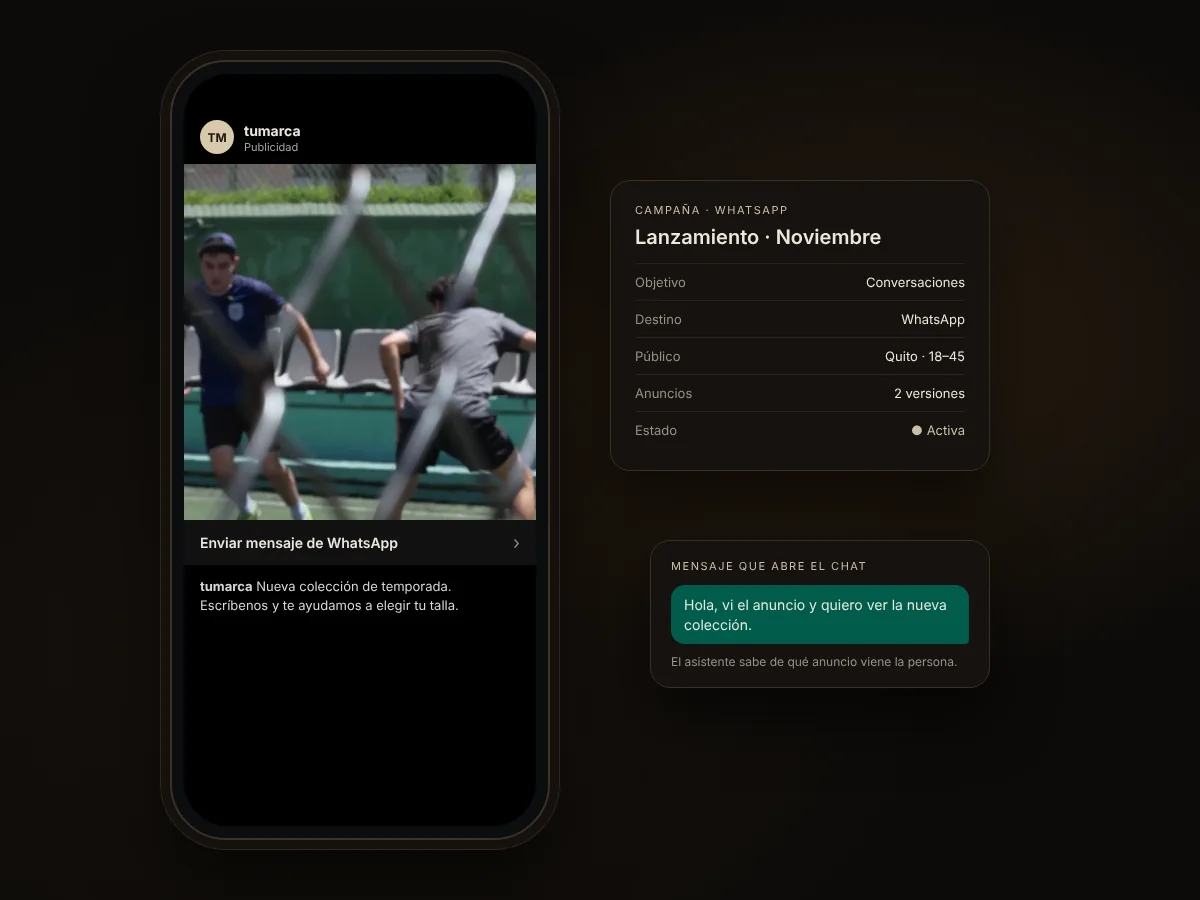
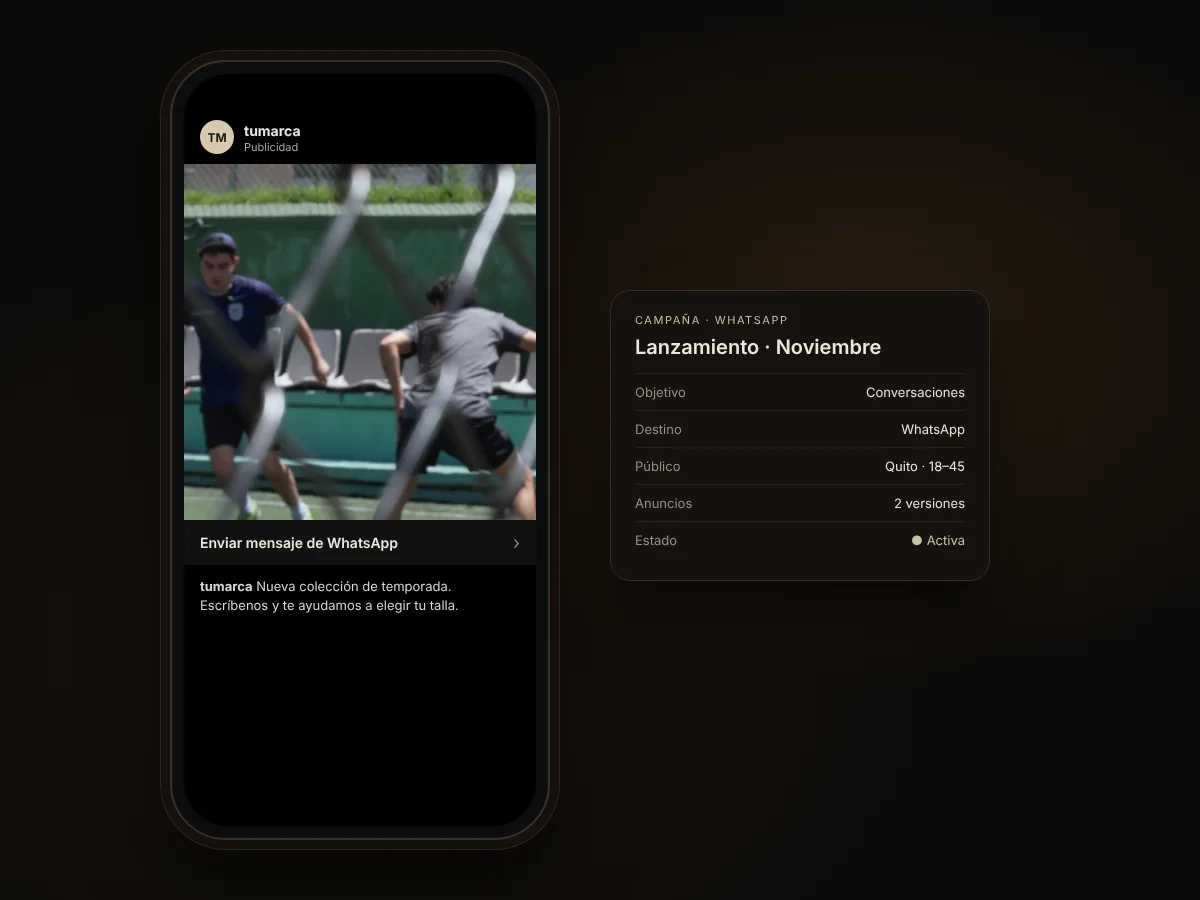
Servicios: textos enfocados en resultados, sin detallar el método
Claude-Session: https://claude.ai/code/session_015h3myGgNJe13r3MV7cfRrF

diff --git a/servicios.html b/servicios.html
@@ -6,7 +6,7 @@
 <meta name="theme-color" content="#0A0908">
 <link rel="icon" href="assets/monograma-cw.png">
 <title>Servicios — Creative Whisper</title>
-<meta name="description" content="Servicios de Creative Whisper: análisis de datos y de conversaciones, automatización de WhatsApp con IA, community manager, campañas en Meta Ads, sitios web, video de marca, fotografía y doblaje.">
+<meta name="description" content="Servicios de Creative Whisper: análisis de datos, automatización con inteligencia artificial, marketing digital, sitios web y producción audiovisual.">
 <link rel="preconnect" href="https://fonts.googleapis.com">
 <link rel="preconnect" href="https://fonts.gstatic.com" crossorigin>
 <link rel="stylesheet" href="https://fonts.googleapis.com/css2?family=Cinzel:wght@400;500;600&family=Cormorant:ital,wght@0,300;0,400;0,500;1,300;1,400;1,500&family=Hanken+Grotesk:wght@400;500;600&family=IBM+Plex+Mono:wght@400;500&display=swap">
@@ -785,16 +785,16 @@ html.intro-playing .hero-title .ln > span{animation-play-state:paused}
         <div class="sum-col">
           <div class="sum-group"><span class="label">Datos e inteligencia artificial</span>
             <a class="sum-item" href="#svc-analisis-de-datos"><span class="sum-n mono">01</span><span class="sum-t"><b>Análisis de datos</b><span>Dashboards en Power BI, modelos y segmentación de clientes.</span></span><span class="arrow" aria-hidden="true">→</span></a>
-            <a class="sum-item" href="#svc-analisis-de-conversaciones"><span class="sum-n mono">02</span><span class="sum-t"><b>Análisis de conversaciones</b><span>KPIs, sentimiento y quejas a partir de tus chats.</span></span><span class="arrow" aria-hidden="true">→</span></a>
+            <a class="sum-item" href="#svc-analisis-de-conversaciones"><span class="sum-n mono">02</span><span class="sum-t"><b>Análisis de conversaciones</b><span>Información clara a partir de tus conversaciones.</span></span><span class="arrow" aria-hidden="true">→</span></a>
           </div>
           <div class="sum-group"><span class="label">Automatización y atención</span>
-            <a class="sum-item" href="#svc-automatizacion-de-whatsapp"><span class="sum-n mono">03</span><span class="sum-t"><b>Automatización de WhatsApp</b><span>Asistente con IA que responde, toma pedidos y cotiza envíos.</span></span><span class="arrow" aria-hidden="true">→</span></a>
-            <a class="sum-item" href="#svc-community-manager-con-ia"><span class="sum-n mono">04</span><span class="sum-t"><b>Community manager con IA</b><span>Mensajes y comentarios de Instagram respondidos al momento.</span></span><span class="arrow" aria-hidden="true">→</span></a>
+            <a class="sum-item" href="#svc-automatizacion-de-whatsapp"><span class="sum-n mono">03</span><span class="sum-t"><b>Automatización de WhatsApp</b><span>Atención 24/7 con la voz de tu marca.</span></span><span class="arrow" aria-hidden="true">→</span></a>
+            <a class="sum-item" href="#svc-community-manager-con-ia"><span class="sum-n mono">04</span><span class="sum-t"><b>Community manager con IA</b><span>Instagram atendido al momento.</span></span><span class="arrow" aria-hidden="true">→</span></a>
           </div>
           <div class="sum-group"><span class="label">Marketing digital</span>
-            <a class="sum-item" href="#svc-campanas-en-meta-ads"><span class="sum-n mono">05</span><span class="sum-t"><b>Campañas en Meta Ads</b><span>Anuncios que llevan a una conversación de WhatsApp.</span></span><span class="arrow" aria-hidden="true">→</span></a>
+            <a class="sum-item" href="#svc-campanas-en-meta-ads"><span class="sum-n mono">05</span><span class="sum-t"><b>Campañas en Meta Ads</b><span>Campañas que generan conversaciones.</span></span><span class="arrow" aria-hidden="true">→</span></a>
             <a class="sum-item" href="#svc-diseno-para-instagram"><span class="sum-n mono">06</span><span class="sum-t"><b>Diseño para Instagram</b><span>Posts, carruseles y stories con publicación programada.</span></span><span class="arrow" aria-hidden="true">→</span></a>
-            <a class="sum-item" href="#svc-sitios-web-con-pedido-por-whatsapp"><span class="sum-n mono">07</span><span class="sum-t"><b>Sitios web con pedido por WhatsApp</b><span>Catálogo, total calculado y pedido en un paso.</span></span><span class="arrow" aria-hidden="true">→</span></a>
+            <a class="sum-item" href="#svc-sitios-web-con-pedido-por-whatsapp"><span class="sum-n mono">07</span><span class="sum-t"><b>Sitios web con pedido por WhatsApp</b><span>Tu catálogo listo para vender desde el celular.</span></span><span class="arrow" aria-hidden="true">→</span></a>
           </div>
         </div>
         <div class="sum-col">
@@ -861,15 +861,13 @@ html.intro-playing .hero-title .ln > span{animation-play-state:paused}
           <div class="ph"><img src="assets/srv/conversaciones.webp" alt="Reporte de conversaciones con indicadores, sentimiento y una queja prioritaria" loading="lazy"></div>
           <div class="body">
             <h3>Análisis de conversaciones</h3>
-            <p>Convertimos los chats de tu marca con sus clientes en información para decidir: qué preguntan, qué quieren comprar, de qué se quejan y qué conviene publicar después.</p>
+            <p>Convertimos las conversaciones de tu marca con sus clientes en información clara para decidir qué vender, qué mejorar y qué comunicar.</p>
             <ul>
-              <li>Indicadores de mensajes, intención de compra, pedidos y quejas</li>
-              <li>Puntaje de sentimiento y alerta inmediata ante las quejas graves</li>
-              <li>Preguntas frecuentes y temas de queja agrupados</li>
-              <li>Reporte semanal o mensual que se lee desde el celular</li>
-              <li>Ideas de publicaciones a partir de lo que pregunta tu público</li>
+              <li>Indicadores clave de tus canales de atención</li>
+              <li>Alertas cuando algo necesita atención inmediata</li>
+              <li>Reportes periódicos fáciles de leer</li>
             </ul>
-            <span class="mono">WhatsApp · Instagram · KPIs</span>
+            <span class="mono">Datos · Reportes</span>
           </div>
         </figure>
         <p class="label cards-group">Automatización y atención</p>
@@ -877,30 +875,26 @@ html.intro-playing .hero-title .ln > span{animation-play-state:paused}
           <div class="ph"><img src="assets/srv/whatsapp.webp" alt="Automatización de WhatsApp" loading="lazy"></div>
           <div class="body">
             <h3>Automatización de WhatsApp</h3>
-            <p>Un asistente con inteligencia artificial atiende tu WhatsApp las 24 horas con la información y el tono de tu marca, y sabe de qué anuncio de Meta viene cada persona.</p>
+            <p>Un asistente con inteligencia artificial atiende tu WhatsApp las 24 horas con la información y el tono de tu marca.</p>
             <ul>
-              <li>Preguntas frecuentes, precios y recomendación de productos</li>
-              <li>Toma de pedidos y cálculo del costo de envío</li>
-              <li>Comprensión de notas de voz</li>
-              <li>Respuestas según la campaña de Meta Ads activa</li>
-              <li>Tu equipo toma cualquier chat cuando lo necesita</li>
-              <li>Seguimiento mensual opcional</li>
+              <li>Respuestas inmediatas a tus clientes</li>
+              <li>Pedidos atendidos de principio a fin</li>
+              <li>Integración con tus campañas de Meta Ads</li>
+              <li>Tu equipo interviene cuando hace falta</li>
             </ul>
-            <span class="mono">WhatsApp Business · Meta Ads · IA</span>
+            <span class="mono">WhatsApp Business · IA</span>
           </div>
         </figure>
         <figure id="svc-community-manager-con-ia" class="card">
           <div class="ph"><img src="assets/srv/instagram-cm.webp" alt="Mensajes directos y comentarios de Instagram respondidos por la marca" loading="lazy"></div>
           <div class="body">
             <h3>Community manager con IA</h3>
-            <p>Respondemos al momento los mensajes directos y comentarios de tu cuenta de Instagram, con la voz de tu marca. Lo que requiere criterio humano llega a tu equipo con una respuesta sugerida.</p>
+            <p>Tu cuenta de Instagram responde al momento y con la voz de tu marca, mientras tu equipo se enfoca en lo que necesita criterio humano.</p>
             <ul>
-              <li>Respuesta a mensajes directos y comentarios rutinarios</li>
-              <li>Reglas por marca: qué se responde en público y qué por privado</li>
-              <li>Quejas, colaboraciones y casos sensibles derivados al equipo</li>
-              <li>Respuesta sugerida lista para aprobar</li>
+              <li>Mensajes directos y comentarios atendidos</li>
+              <li>Casos importantes escalados al equipo</li>
             </ul>
-            <span class="mono">Instagram · DMs · Comentarios</span>
+            <span class="mono">Instagram</span>
           </div>
         </figure>
         <p class="label cards-group">Marketing digital</p>
@@ -908,14 +902,12 @@ html.intro-playing .hero-title .ln > span{animation-play-state:paused}
           <div class="ph"><img src="assets/srv/meta-ads.webp" alt="Anuncio de Instagram con botón para escribir por WhatsApp y resumen de la campaña" loading="lazy"></div>
           <div class="body">
             <h3>Campañas en Meta Ads</h3>
-            <p>Planificamos, armamos y medimos campañas en Facebook e Instagram que llevan a las personas directo a una conversación de WhatsApp con tu marca.</p>
+            <p>Campañas en Facebook e Instagram que convierten la atención en conversaciones con tu marca.</p>
             <ul>
-              <li>Objetivo, público y presupuesto de la campaña</li>
-              <li>Anuncios con piezas producidas por nuestro equipo</li>
-              <li>Mensaje de inicio por anuncio para saber de dónde viene cada cliente</li>
-              <li>Lectura de resultados y ajuste de la siguiente campaña</li>
+              <li>Estrategia y piezas de la campaña</li>
+              <li>Medición y mejora continua</li>
             </ul>
-            <span class="mono">Facebook · Instagram · WhatsApp</span>
+            <span class="mono">Facebook · Instagram</span>
           </div>
         </figure>
         <figure id="svc-diseno-para-instagram" class="card">
@@ -937,15 +929,13 @@ html.intro-playing .hero-title .ln > span{animation-play-state:paused}
           <div class="ph"><img src="assets/srv/web-pedidos.webp" alt="Catálogo web donde el cliente arma su pedido y lo envía por WhatsApp" loading="lazy"></div>
           <div class="body">
             <h3>Sitios web con pedido por WhatsApp</h3>
-            <p>Páginas rápidas y elegantes para tu marca o tu catálogo. El cliente arma su pedido, ve el total y lo envía a tu WhatsApp en un solo paso.</p>
+            <p>Páginas rápidas y elegantes para tu marca o tu catálogo, pensadas para que el cliente compre desde el celular.</p>
             <ul>
-              <li>Diseño a la medida de la marca, pensado para el celular</li>
-              <li>Catálogo con pedido y total calculado</li>
-              <li>Promociones y condiciones de envío a la vista</li>
-              <li>Conexión con el asistente de WhatsApp</li>
-              <li>Posicionamiento básico en buscadores</li>
+              <li>Diseño a la medida de la marca</li>
+              <li>Pedido directo por WhatsApp</li>
+              <li>Visibilidad en buscadores</li>
             </ul>
-            <span class="mono">Web · Catálogo · WhatsApp</span>
+            <span class="mono">Web · Catálogo</span>
           </div>
         </figure>
         <p class="label cards-group">Producción</p>
@@ -1140,11 +1130,7 @@ html.intro-playing .hero-title .ln > span{animation-play-state:paused}
         </details>
         <details>
           <summary>¿El asistente de WhatsApp reemplaza a mi equipo? <i></i></summary>
-          <p>No. Responde lo repetitivo —precios, disponibilidad, envíos, pedidos— y avisa a tu equipo cuando un cliente necesita a una persona. Si alguien de tu equipo escribe en un chat, el asistente se pausa en esa conversación.</p>
-        </details>
-        <details>
-          <summary>¿Qué necesito para automatizar WhatsApp e Instagram? <i></i></summary>
-          <p>Un número de WhatsApp para tu marca y acceso a tu cuenta de Meta Business. Nosotros hacemos la conexión, cargamos la información de tus productos y probamos todo antes de activarlo.</p>
+          <p>No. Se encarga de lo repetitivo para que tu equipo dedique su tiempo a lo que necesita una persona.</p>
         </details>
         <details>
           <summary>¿Puedo contratar solo fotografía o solo edición? <i></i></summary>

diff --git a/index.html b/index.html
@@ -910,8 +910,8 @@ html.intro-playing .hero-title .ln > span{animation-play-state:paused}
         </li>
         <li class="svc" data-img="assets/srv/conversaciones.webp">
           <h3>Análisis de conversaciones</h3>
-          <p>Los chats de tu marca convertidos en indicadores: qué preguntan, qué compran, de qué se quejan y qué conviene publicar después.</p>
-          <span class="mono">KPIs<br>Sentimiento</span>
+          <p>Las conversaciones de tu marca convertidas en información clara para decidir.</p>
+          <span class="mono">Datos<br>Reportes</span>
           <div class="svc-thumb"><img src="assets/srv/conversaciones.webp" alt="Reporte de conversaciones con indicadores y sentimiento" loading="lazy"></div>
         </li>
         <li class="svc" data-img="assets/bts-guion.webp">
@@ -923,19 +923,19 @@ html.intro-playing .hero-title .ln > span{animation-play-state:paused}
         <li class="svc-group"><span class="label">Digital</span></li>
         <li class="svc" data-img="assets/srv/whatsapp.webp">
           <h3>Atención automatizada con IA</h3>
-          <p>Un asistente atiende tu WhatsApp y tu Instagram las 24 horas con la voz de tu marca: responde, toma pedidos y deriva al equipo lo que necesita a una persona.</p>
+          <p>Un asistente atiende tu WhatsApp y tu Instagram las 24 horas con la voz de tu marca.</p>
           <span class="mono">WhatsApp<br>Instagram</span>
           <div class="svc-thumb"><img src="assets/srv/whatsapp.webp" alt="Conversación de WhatsApp atendida por un asistente" loading="lazy"></div>
         </li>
         <li class="svc" data-img="assets/srv/meta-ads.webp">
           <h3>Campañas y redes</h3>
-          <p>Campañas en Meta Ads que llevan directo a WhatsApp, y diseño de posts, carruseles y stories con publicación programada.</p>
+          <p>Campañas en Meta Ads y diseño para Instagram, conectados con tu producción de video.</p>
           <span class="mono">Meta Ads<br>Instagram</span>
           <div class="svc-thumb"><img src="assets/srv/meta-ads.webp" alt="Anuncio de Instagram con botón para escribir por WhatsApp" loading="lazy"></div>
         </li>
         <li class="svc" data-img="assets/srv/web-pedidos.webp">
           <h3>Sitios web con pedido por WhatsApp</h3>
-          <p>Páginas para tu marca o tu catálogo donde el cliente arma su pedido, ve el total y lo envía en un solo paso.</p>
+          <p>Páginas para tu marca o tu catálogo, listas para vender desde el celular.</p>
           <span class="mono">Web<br>Catálogo</span>
           <div class="svc-thumb"><img src="assets/srv/web-pedidos.webp" alt="Catálogo web con pedido por WhatsApp" loading="lazy"></div>
         </li>
